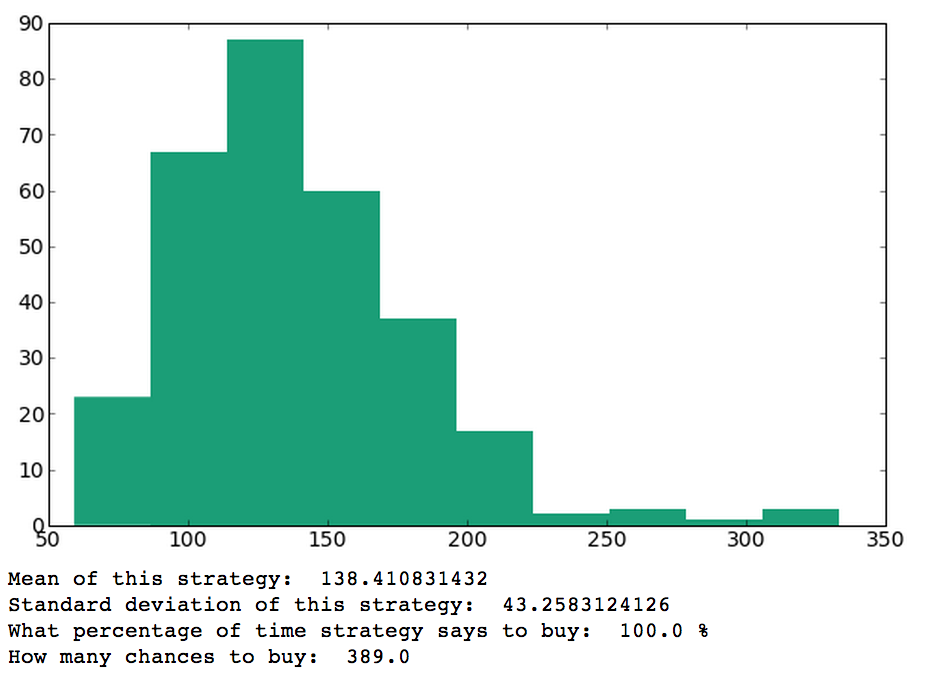
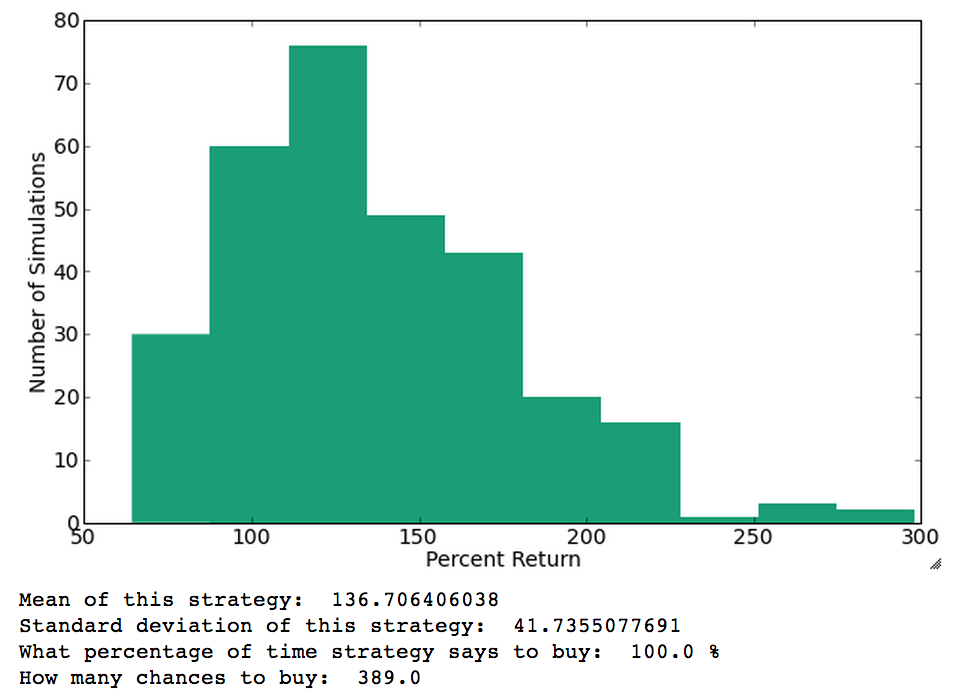
wrote website conclusion

Changed region(s): [[0.0, 0.0, 0.982, 0.9926]]

diff --git a/website/knn.html b/website/knn.html
@@ -21,13 +21,12 @@
 
 <div id="wrapper">
 	<h2>KNN Model</h2>
-	<p>We decided that we'd give it another shot and build a different sort of model for predicting stock movement. The basic idea was that in order to predict a certain stock's movement on a given Monday, we would look at how its stock price and Google trends looked from last week, try to find similar cases that already occurred, and then assume that our stock would perform in a fashion similar to how the similar cases played out in history.   In other words, if we imagine our Google trend and stock price input data as a curve connecting dots corresponding to the data points, we wanted to find similar-looking curves and see how the curves continued. Here is a picture of what we mean with explanation below:</p>
-
+	<p>SKY decided that they'd give it another shot and build a different sort of model for predicting stock movement. The basic idea was that in order to predict a certain stock's movement on a given Monday, SKY would look at how its stock price and Google Trends looked from last week, try to find similar cases that already occurred, and then assume that the stock would perform in a fashion similar to how the similar cases played out in history.In other words, if we imagine our Google trend and stock price input data as a curve connecting dots corresponding to the data points, we wanted to find similar-looking curves and see how the curves continued. Here is a picture of what we mean with explanation below:</p>
 	<img src="fig7.png"/>
 
 	<p>The red line represents what happened last week to the stock we're trying to predict and the blue lines represent similar instances in the past. The idea is that we can then predict where the red line will move on the basis of where the blue lines in fact did move. An intuitively obvious strategy, right? How could it possibly fail?</p>
 
-	<p>Unfortunately, even using this model we weren't able to predict whether a stock would rise or fall with a success rate much better than 50%.</p>
+	<p>Unfortunately, even using this model SKY wasn't able to predict whether a stock would rise or fall with a success rate much better than 50%.</p>
 </div>
 </body>
 </html>

diff --git a/website/conclusions.html b/website/conclusions.html
@@ -21,6 +21,12 @@
 
 <div id="wrapper">
 	<h2>Conclusions</h2>
+
+	<p>SKY's models did not depend at all on fundamental underpinnings of the individual companies, but rather they are based on studying weekly stock price and Google Trends without regard for the characteristics of the underlying company being studied. This makes it very generalizable and allows SKY to easily analyze lots of different companies.</p>
+
+	<p>Predicting stock movement is difficult, and this project does not prove that SKY has found a decisive way to game the system. However, it has shown that these methods show promise and that further investigation may very well result in better models that provide better returns.</p>
+
+	<p>Without a tool for actually drawing in current data about stocks, the model remains inactionable. That is, SKY cannot yet provide investors with daily or weekly lists of stocks that they should invest in. Stay tuned for the development of a platform that will capitalize on these findings!</p>
 </div>
 </body>
 </html>

diff --git a/website/linear_model.html b/website/linear_model.html
@@ -83,7 +83,9 @@
 	<p>Not bad to expect a 138% average return on investment! However, these companies that we analyzed were Apple, Microsoft, Motorola, Amazon, and HP, and so they've all done well, historically. This says nothing about the future though, so don't go buying all the stocks without weighing your risk appetite!</p>
 
 	<p>Then, using our model and a buying and selling strategy, we were able to achieve the following returns and on average make 20% more!</p>
-	<b>screenshot here!</b>
+	<img src="fig8.png"/>
+
+	<p>Not bad! Can we make it rain cash?</p>
 </div>
 </body>
 </html>

diff --git a/website/style.css b/website/style.css
@@ -23,12 +23,13 @@ h3 {
 	text-transform: uppercase;
 }
 p {
-	font-size: 16px;
+	font-size: 18px;
 	line-height: 1.4em;
 }
 #wrapper {
 	width: 900px;
 	margin: 0 auto;
+	padding-bottom: 50px;
 }
 img {
 	display: block;
@@ -44,7 +45,7 @@ img {
 #header {
 	list-style-type: none;
 	margin: 0 auto;
-	width: 1000px;
+	width: 930px;
 }
 #header li {
 	float: left;
